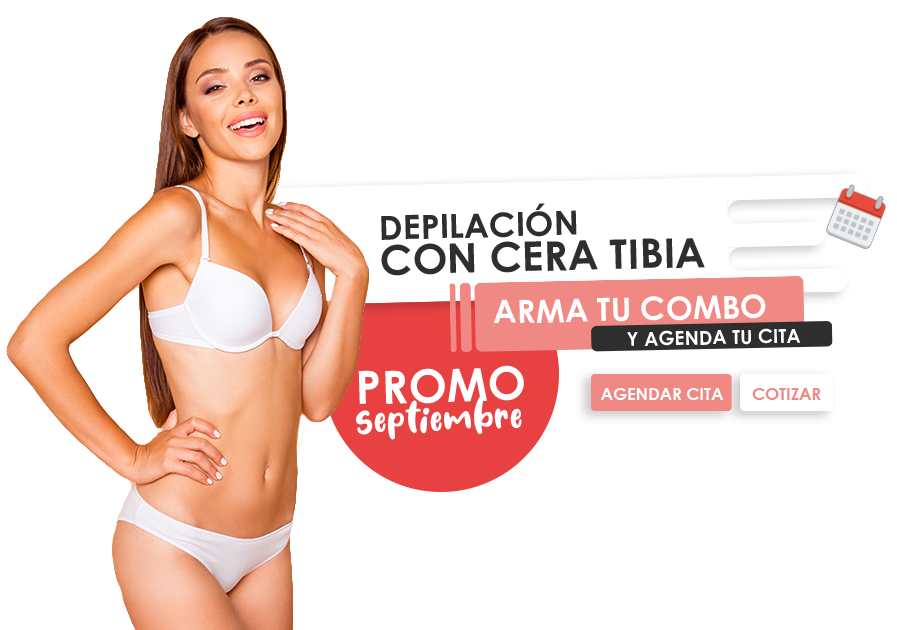
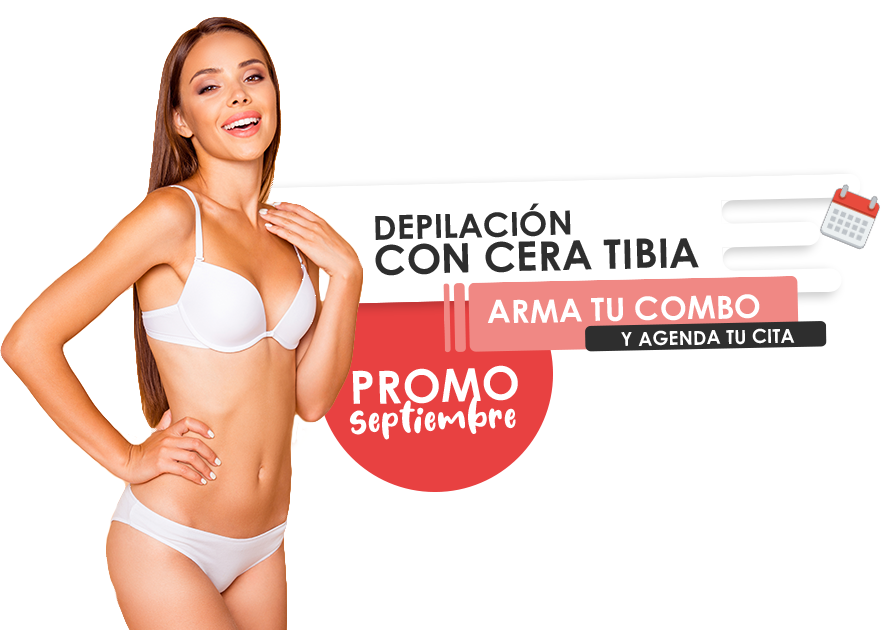
END PROMO OCTUBRE

diff --git a/src/public/css/carousel.css b/src/public/css/carousel.css
@@ -23,8 +23,21 @@
 
 .flex-carousel-item {
   display: flex;
+  position: relative;
   justify-content: center;
   align-items: center;
+  margin: auto;
+  /* min-height: 500px; */
+}
+
+.btn-header {
+  display: flex;
+  position: absolute;
+  bottom: 80px;
+}
+
+.btn-header a {
+  box-shadow: var(--sombra);
 }
 
 ._servicioIndex {
@@ -136,7 +149,7 @@
   background-color: var(--base) !important;
 }
 
-/*  RESPONDDIVE */
+/*  RESPONSIVE */
 @media screen and (max-width: 1280px) {
 }
 
@@ -160,13 +173,13 @@
   }
 
   #carouselExampleIndicators {
-    height: 500px;
+    /* height: 500px; */
   }
 
   .flex-carousel-item img {
+    object-fit: cover;
     position: relative;
-    left: -15px;
-    max-width: 320px;
+    max-width: 100%;
   }
 
   ._servicioIndex {
@@ -209,16 +222,23 @@
     padding: 10px 0;
   }
 
+  .btn-header {
+    top: -10px;
+    right: 10px;
+    bottom: auto;
+    /* right: 10px; */
+  }
+
   .buttons-ui a {
-    font-size: 10px !important;
+    font-size: 12px !important;
   }
 
   .btn-blanco {
-    padding: 10px 20px !important;
+    padding: 5px 10px !important;
   }
 
   .btn-rojo {
-    padding: 10px 20px !important;
+    padding: 5px 10px !important;
   }
 }
 
